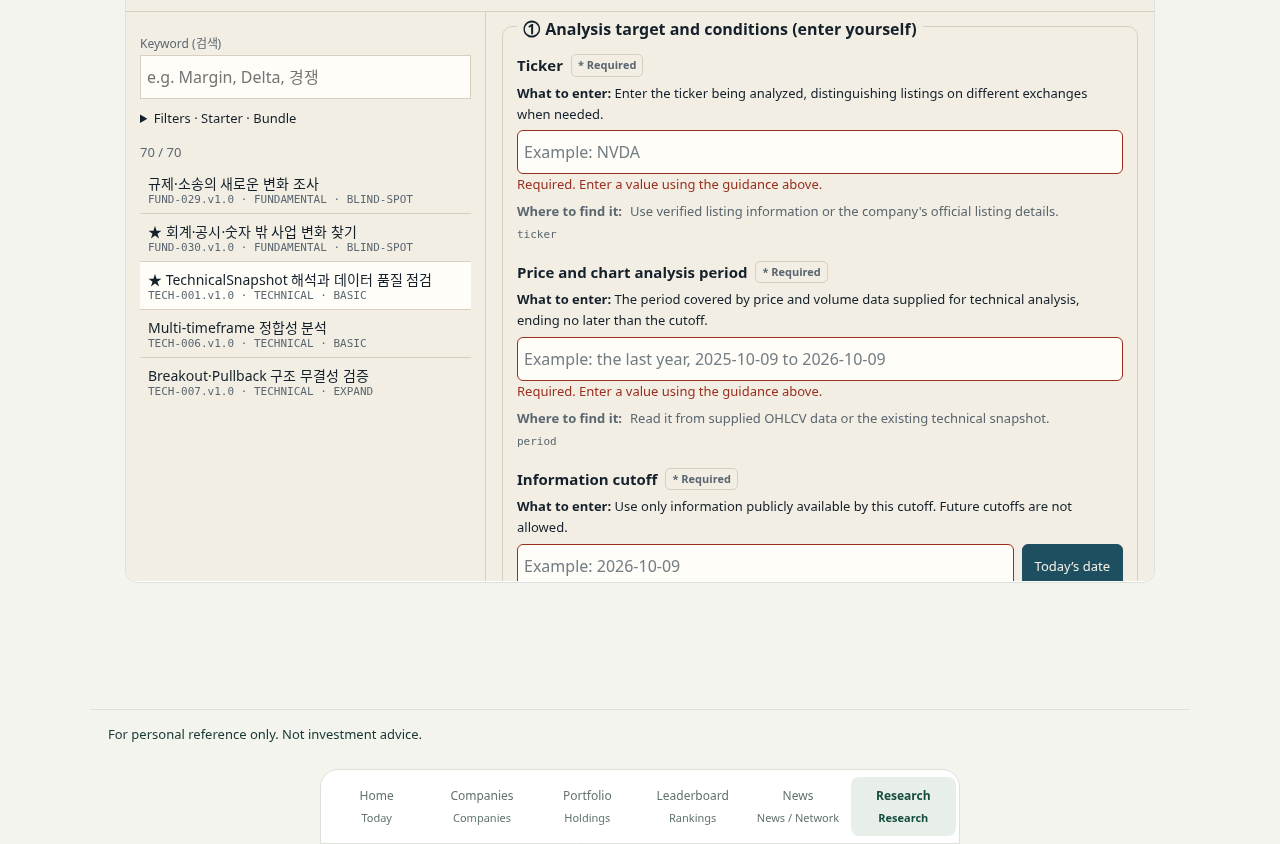
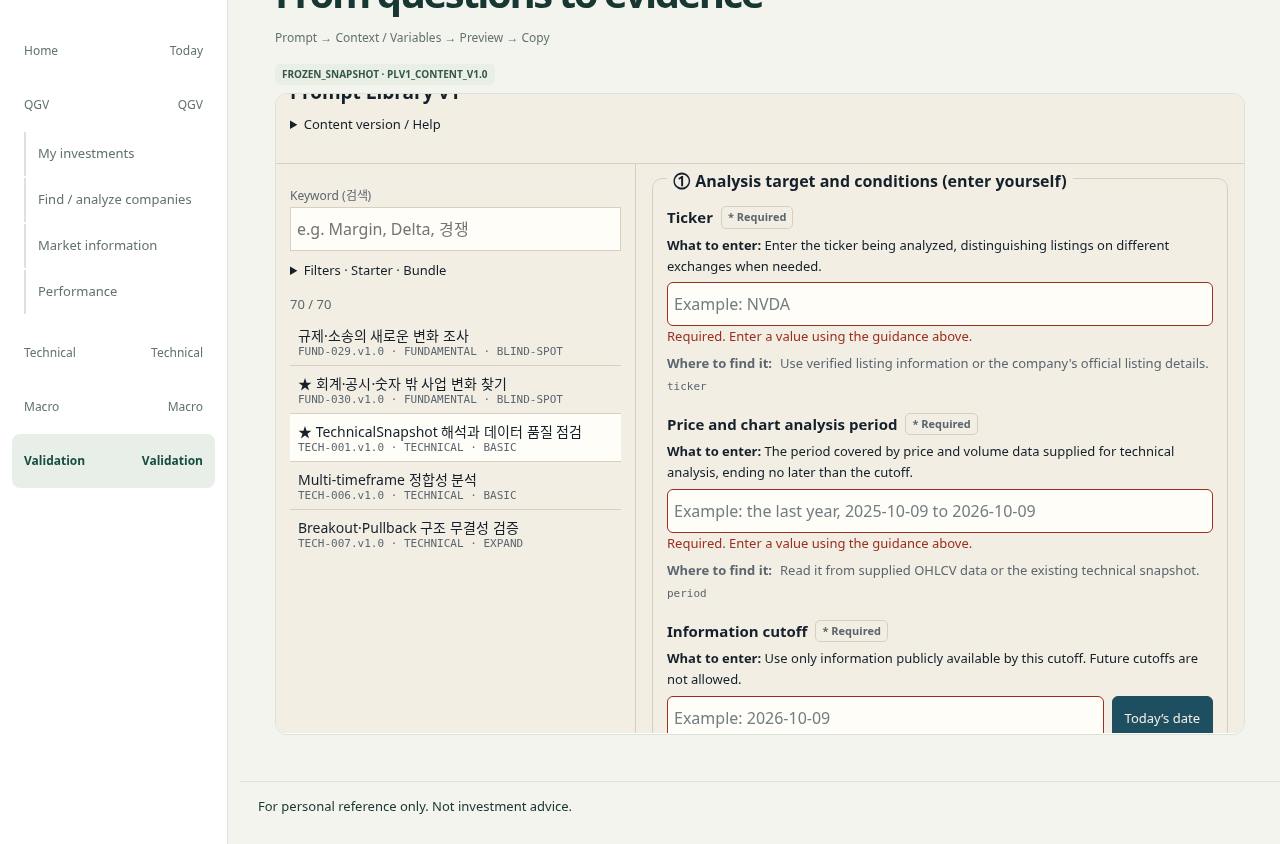
docs(research): record navigation compatibility and empty field screenshots

diff --git a/implementation/docs/prompt_field_guide_owner/VERIFICATION.md b/implementation/docs/prompt_field_guide_owner/VERIFICATION.md
@@ -45,9 +45,22 @@
 CI에는 신규 브라우저 검증과 공개 폴더 밖의 빈 기기 증거 업로드를 추가했습니다.
 실제 GitHub CI 실행은 기준 브랜치 결정과 PR 생성 후 확인합니다.
 
+## #75와의 사전 호환성
+
+원격과 canonical을 변경하지 않고 별도 로컬 체크아웃에 #75의
+`23ac32eb8e021a5c89ca4bf2eef46fb94bf73d87`과 안내 변경을 함께 적용했습니다.
+로컬 검증 커밋은 `0c02d41`입니다. 두 CI 검사와 두 locale 추가를 보존하고
+실제 합쳐진 `app.js`·`locale.js`·`research.html` 3개 핀만 갱신했습니다.
+
+- Python 861개 + 345 subtests, 메뉴 IA 741 checks, 안내 16,833 checks PASS.
+- 390/1280px × ko/en, 공개 JSON·CSP·메뉴 HTML/CSS는 #75 대비 동일합니다.
+- 공개 산출물 가드 PASS; 외부 호출·CSP 위반·런타임 오류·payload 파일 0.
+- 원격 병합이나 배포 결과가 아닌, 미병합 #75와의 로컬 호환성 확인입니다.
+
 ## 빈 폼 스크린샷
 
-모두 기기 저장소와 입력값이 비어 있으며, 회색 글씨는 placeholder입니다.
+아래 4장은 #75와 합친 사전 호환성 빌드의 빈 폼입니다. 기기 저장소와 입력값이
+비어 있으며, 회색 글씨는 placeholder입니다. 실제 배포 화면을 촬영한 것은 아닙니다.
 
 | 화면 | 한국어 | 영어 |
 | --- | --- | --- |
